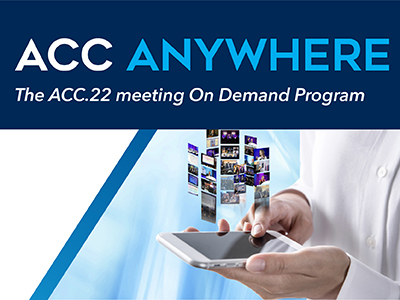
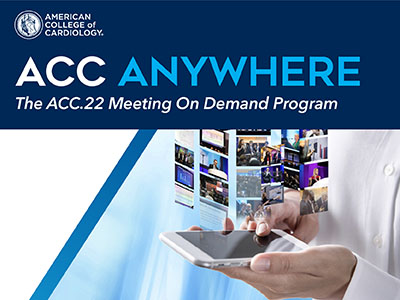
alterations to road block and new images.

diff --git a/_library_prototypes/NewGridRoadBlock.html b/_library_prototypes/NewGridRoadBlock.html
@@ -6,56 +6,72 @@ homeActive: false
 searchActive: true 
 --- 
 {% include lib-head.html %}
+
 <body class="BODY_TAG-stand-in bg_black-4 w_100 p_3:md p_2 grid:md min-h_100">
 	<div class="page-wrapper grid:md p_2 p_3:md isolation_isolate br_radius bg_white-7 items_center justify_center">
 		<div class="max-w_50">
 			<section class="reading-typography inset-level_down-1 bg_black-1 shadow_emboss-light br_solid br_1 br_black-2 br_radius p_5:lg p_4 flex flex_column gap_3">
 				<section class="br_radius overflow_hidden relative z_1">
 					<picture class="w_100">
-						<source class="w_100" srcset="https://acc-style.github.io/PrototypingACCorg/assets/images/lib/J22043_600x225.jpg" media="(min-width: 400px)">
-						<img src="https://acc-style.github.io/PrototypingACCorg/assets/images/lib/J22043_400x300.jpg" class="w_100" alt="">
+						<source class="w_100" srcset="
+								https://acc-style.github.io/PrototypingACCorg/assets/images/lib/J22043_600x225.jpg
+							" media="(min-width: 400px)" />
+						<img src="https://acc-style.github.io/PrototypingACCorg/assets/images/lib/J22043_400x300.jpg" class="w_100" alt="" />
 					</picture>
 				</section>
-				<div class="inset-level_up-1 bg_white br_radius relative  p_4">
+				<div class="inset-level_up-1 bg_white br_radius relative p_4">
 					<h1 class="c_primary">Legal Agreements</h1>
-					<p class="font-size_up font_bold">Please scroll down and agree to all the legal agreements.</p>
+					<p class="font-size_up font_bold"> Please scroll down and agree to all the legal agreements. </p>
 				</div>
-				<div class="inset-level_up-1 bg_white br_radius shadow_overlap-light relative br_solid br_1 br_black-2 p_4">
-					<h2>Method of Participation and Claiming Credit</h2>
-					<p class="font-size_up">You may claim credit for this Product up to the maximum credit amounts noted above based on the number of hours You spend watching presentations.  You may re-enter the Product as many times as You wish, but You can claim credit only once and must claim credit by 11:59 p.m. March 1, 2023. </p>
-					
-					<h3>To receive credit for this Product, You must:</h3>
-					<ol>
-						<li>Purchase the Product</li>
-	
-						<li>Read the Credit Information when You first enter the Product.</li>
-						<li>View the presentations of your choosing.</li>
-						<li>Click credits from the left navigation bar after You have completed viewing all presentations for which You intend to claim credit.</li>
-						<li>Complete the evaluation. </li>
-						<li>Enter the number of credits You wish to claim.  Credits claimed should reflect the total number of hours that You spent watching presentations.</li>
-						<li>If you are an ABIM or ABP Diplomate, You will need to enter your ABIM or ABP ID and Date of Birth to claim MOC points.</li>
-						<li>Generate and print your certificate. If You are an ABIM or ABP Diplomate and claimed MOC points, your completion information will be transmitted to the ACCME/ABIM/ABP on your behalf.</li>
-					</ol>
-					<a href="" class="btn btn-success  c_white h:undecorated float_right"><i class="fas fa-check"></i> I agree</a>
+				<div class="inset-level_up-1 bg_white br_radius shadow_overlap-light relative br_solid br_1 br_black-2 p_4 relative isolation_isolate" id="TopAgreement1">
+					<div class="sticky t_0 r_0 z_1">
+						<div class="absolute r_4 t_0 flex flex_row flex_nowrap gap-x_3">
+							<!--  Helper Jump links -->
+							<a class="c_white br-tl_square br-tr_square br_radius btn btn-accent btn-sm grid items_center justify_center m-l_auto self_center shadow_3" href="#TopAgreement1">
+								<span><i class="fas fa-arrow-up p-r_2"></i>top</span>
+							</a>
+							<a class="c_white br-tl_square br-tr_square br_radius btn btn-accent btn-sm grid items_center justify_center m-l_auto self_center shadow_3" href="#Agreement1" >
+								<span><i class="fas fa-arrow-down p-r_2"></i>scroll down</span>
+							</a>
+							<!--  Helper Jump links -->
+						</div>
+					</div>
+					<div class="bg_white br_solid  br-b_1 br_priamry z_2 relative m-t_n2 m-b_4" >
+						<h2>Method of Participation and Claiming Credit</h2>
+						<p class="font-size_up"> You may claim credit for this Product up to the maximum credit amounts noted above based on the number of hours You spend watching presentations. You may re-enter the Product as many times as You wish, but You can claim credit only once and must claim credit by 11:59 p.m. March 1, 2023. </p>
+					</div>
+					<main class="z_0 isolation_isolate">
+						<h3>To receive credit for this Product, You must:</h3>
+						<ol>
+							<li>Purchase the Product</li>
+							<li> Read the Credit Information when You first enter the Product. </li>
+							<li>View the presentations of your choosing.</li>
+							<li> Click credits from the left navigation bar after You have completed viewing all presentations for which You intend to claim credit. </li>
+							<li>Complete the evaluation.</li>
+							<li> Enter the number of credits You wish to claim. Credits claimed should reflect the total number of hours that You spent watching presentations. </li>
+							<li> If you are an ABIM or ABP Diplomate, You will need to enter your ABIM or ABP ID and Date of Birth to claim MOC points. </li>
+							<li> Generate and print your certificate. If You are an ABIM or ABP Diplomate and claimed MOC points, your completion information will be transmitted to the ACCME/ABIM/ABP on your behalf. </li>
+						</ol>
+					</main>
+					<footer id="Agreement1">
+						<a href="" class="btn btn-success c_white h:undecorated float_right"><i class="fas fa-check"></i> I agree</a>
+					</footer>
 				</div>
 				<div class="up inset-level_up-1 bg_white br_radius shadow_overlap-light relative br_solid br_1 br_black-2 p_4">
 					<h2>Legal Terms of Servide</h2>
-					<p class="font-size_up">Iure vero velit pariatur velit ex ea deserunt aut alias. Quis eligendi blanditiis excepturi provident consectetur amet quam. Quae veniam qui odit vitae qui modi dolorem.</p>
-					<a href="" class="btn btn-secondary  c_white h:undecorated float_right">I agree</a>
-				</div>	
-				
+					<p class="font-size_up"> Iure vero velit pariatur velit ex ea deserunt aut alias. Quis eligendi blanditiis excepturi provident consectetur amet quam. Quae veniam qui odit vitae qui modi dolorem. </p>
+					<a href="" class="btn btn-secondary c_white h:undecorated float_right">I agree</a>
+				</div>
 				<div class="up inset-level_up-1 bg_white br_radius shadow_overlap-light relative br_solid br_1 br_black-2 p_4">
 					<h2>Cookie Agreement</h2>
-					<p class="font-size_up">Iure vero velit pariatur velit ex ea deserunt aut alias. Quis eligendi blanditiis excepturi provident consectetur amet quam. Quae veniam qui odit vitae qui modi dolorem.</p>
-					<a href="" class="btn btn-secondary  c_white h:undecorated float_right">I agree</a>
+					<p class="font-size_up"> Iure vero velit pariatur velit ex ea deserunt aut alias. Quis eligendi blanditiis excepturi provident consectetur amet quam. Quae veniam qui odit vitae qui modi dolorem. </p>
+					<a href="" class="btn btn-secondary c_white h:undecorated float_right">I agree</a>
 				</div>
 				<div class="inset-level_up-1 bg_white br_radius relative p_4">
-
-					<h4 class="font_bold">You can continue when all legal terms are agreed to.</h4>
+					<h4 class="font_bold"> You can continue when all legal terms are agreed to. </h4>
 					<a href="" class="btn btn-disabled disabled block">Continue</a>
 				</div>
 			</section>
 		</div>
-
 	</div>
 </body>
